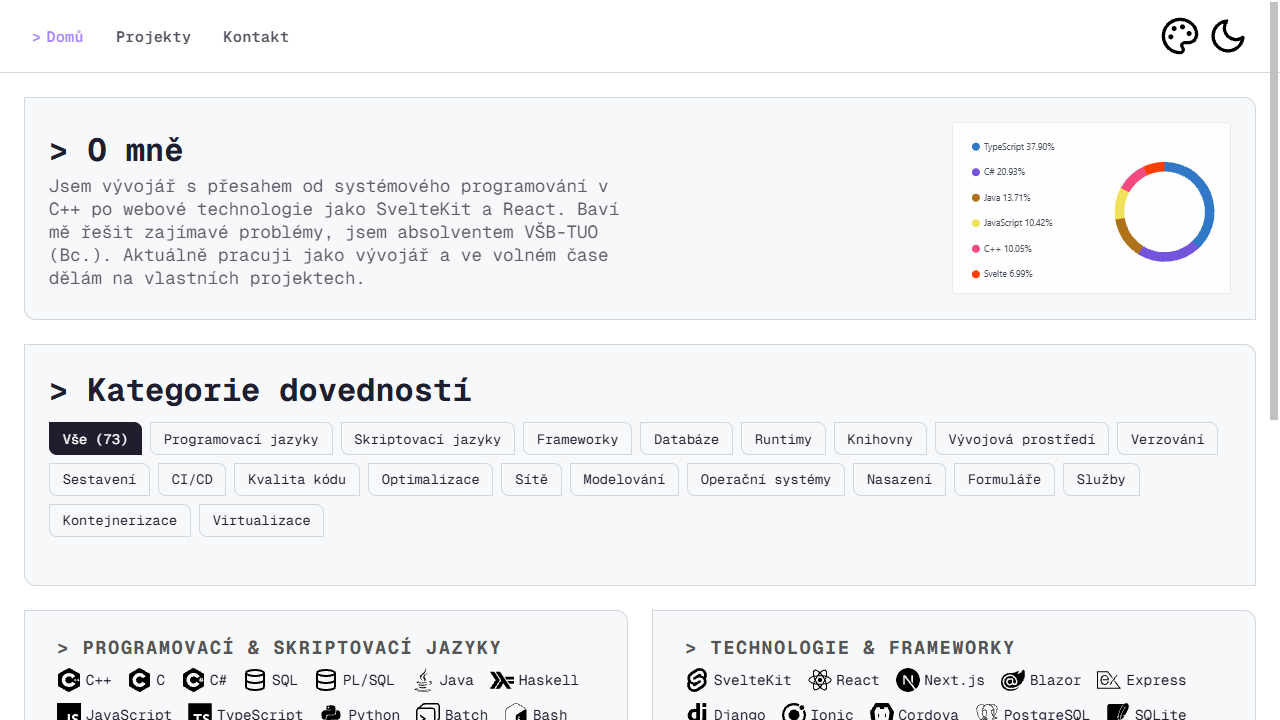
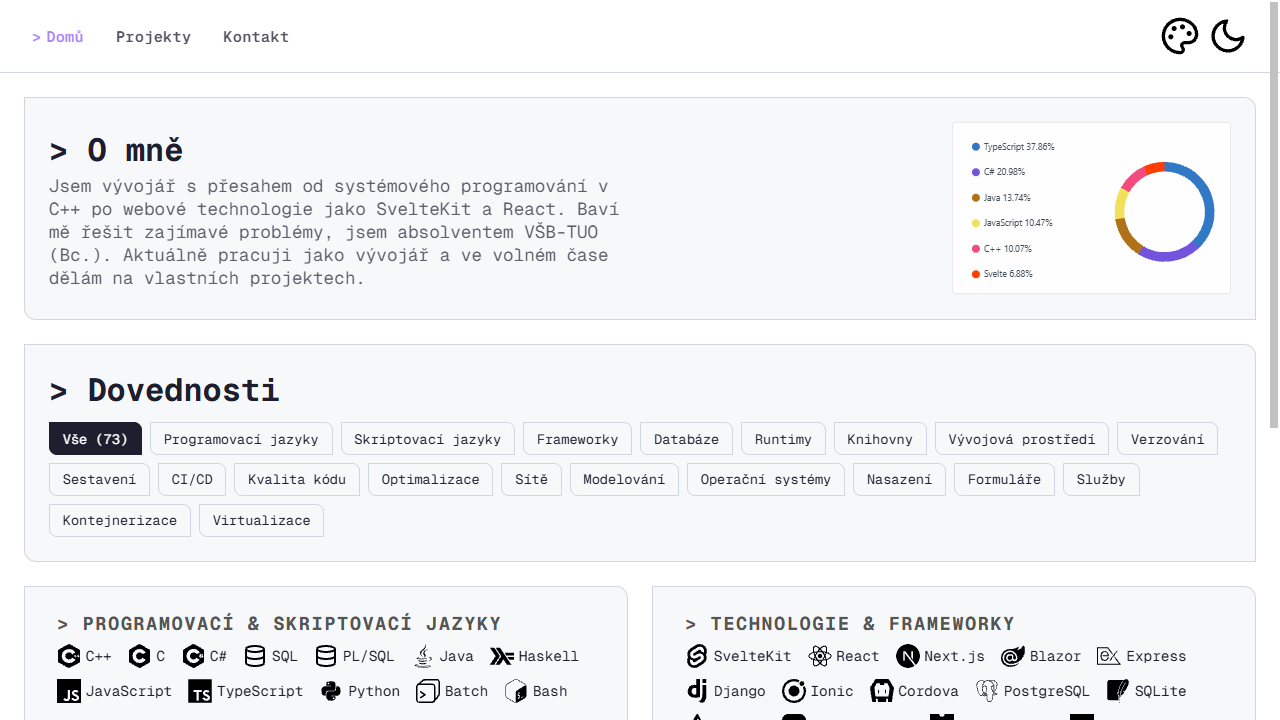
Add HTTP caching and small CSS fixes

Changed region(s): [[0.0312, 0.8556, 0.4375, 1.0], [0.5312, 0.8556, 0.9375, 1.0], [0.0625, 0.5194, 0.375, 0.5806]]

diff --git a/src/routes/+page.svelte b/src/routes/+page.svelte
@@ -37,14 +37,14 @@
         </p>
       </div>
       <div class="stats">
-        <img class="stats-dark" src="https://github-readme-stats.shion.dev/api/top-langs/?username=mk-forge&layout=donut&langs_count=6&hide=html,css,swig,batchfile,makefile&theme=default&hide_title=true" alt="Top Languages" loading="lazy" decoding="async"/>
-        <img class="stats-light" src="https://github-readme-stats.shion.dev/api/top-langs/?username=mk-forge&layout=donut&langs_count=6&hide=html,css,swig,batchfile,makefile&theme=one_dark_pro&hide_title=true" alt="Top Languages" loading="lazy" decoding="async"/>
+        <img class="stats-dark" src="https://github-readme-stats.shion.dev/api/top-langs/?username=mk-forge&layout=donut&langs_count=6&hide=html,css,swig,batchfile,makefile&theme=default&hide_title=true" width="350" height="217" alt="Top Languages" loading="lazy" decoding="async"/>
+        <img class="stats-light" src="https://github-readme-stats.shion.dev/api/top-langs/?username=mk-forge&layout=donut&langs_count=6&hide=html,css,swig,batchfile,makefile&theme=one_dark_pro&hide_title=true" width="350" height="217" alt="Top Languages" loading="lazy" decoding="async"/>
       </div>
     </div>
 
     <div class="profile-card filter-card">
       <div class="profile-text">
-        <h1 class="heading"><span class="heading-prefix">></span> Kategorie dovedností</h1>
+        <h1 class="heading"><span class="heading-prefix">></span> Dovednosti</h1>
         <div class="category-buttons">
           {#each categories as category}
             <button class="category-btn" class:active={activeCategory == category} onclick={() => activeCategory = category}>

diff --git a/src/hooks.server.js b/src/hooks.server.js
@@ -1,0 +1,19 @@
+export async function handle({ event, resolve }) {
+  let response = await resolve(event);
+  response.headers.set('Cross-Origin-Opener-Policy', 'same-origin');
+  
+  if (!response.headers.has('Cache-Control')) {
+    let url = event.url.pathname;
+    let ext = url.split('.').pop() ?? '';
+
+    let cacheControl;
+    if (url == '/' || !ext.includes('.'))
+      cacheControl = 'no-cache';
+    else
+      cacheControl = 'public, max-age=31536000, immutable';
+
+    response.headers.set('Cache-Control', cacheControl);
+  }
+
+  return response;
+}

diff --git a/src/routes/projects/+page.svelte b/src/routes/projects/+page.svelte
@@ -106,7 +106,7 @@
 
 <div class="page" class:hydrated>
   <div class="projects-page">
-    <h1 class="heading"><span class="heading-prefix">></span> Moje projekty</h1>
+    <h1 class="heading"><span class="heading-prefix">></span> Projekty</h1>
     <p class="subtitle">Zde najdete přehled mých projektů.</p>
     <div class="info-box">
       <img src="/info.png" alt=""/>

diff --git a/src/lib/styles/home.css b/src/lib/styles/home.css
@@ -158,6 +158,8 @@
 .stats img {
   max-width: 100%;
   height: auto;
+  aspect-ratio: 350 / 217;
+  object-fit: contain;
 }
 
 .stats .stats-light {
@@ -169,7 +171,7 @@
   flex-wrap: wrap;
   gap: 0.5rem;
   margin-top: 0.5rem;
-  margin-bottom: 1.5rem;
+  margin-bottom: 0;
 }
 
 .category-btn {
